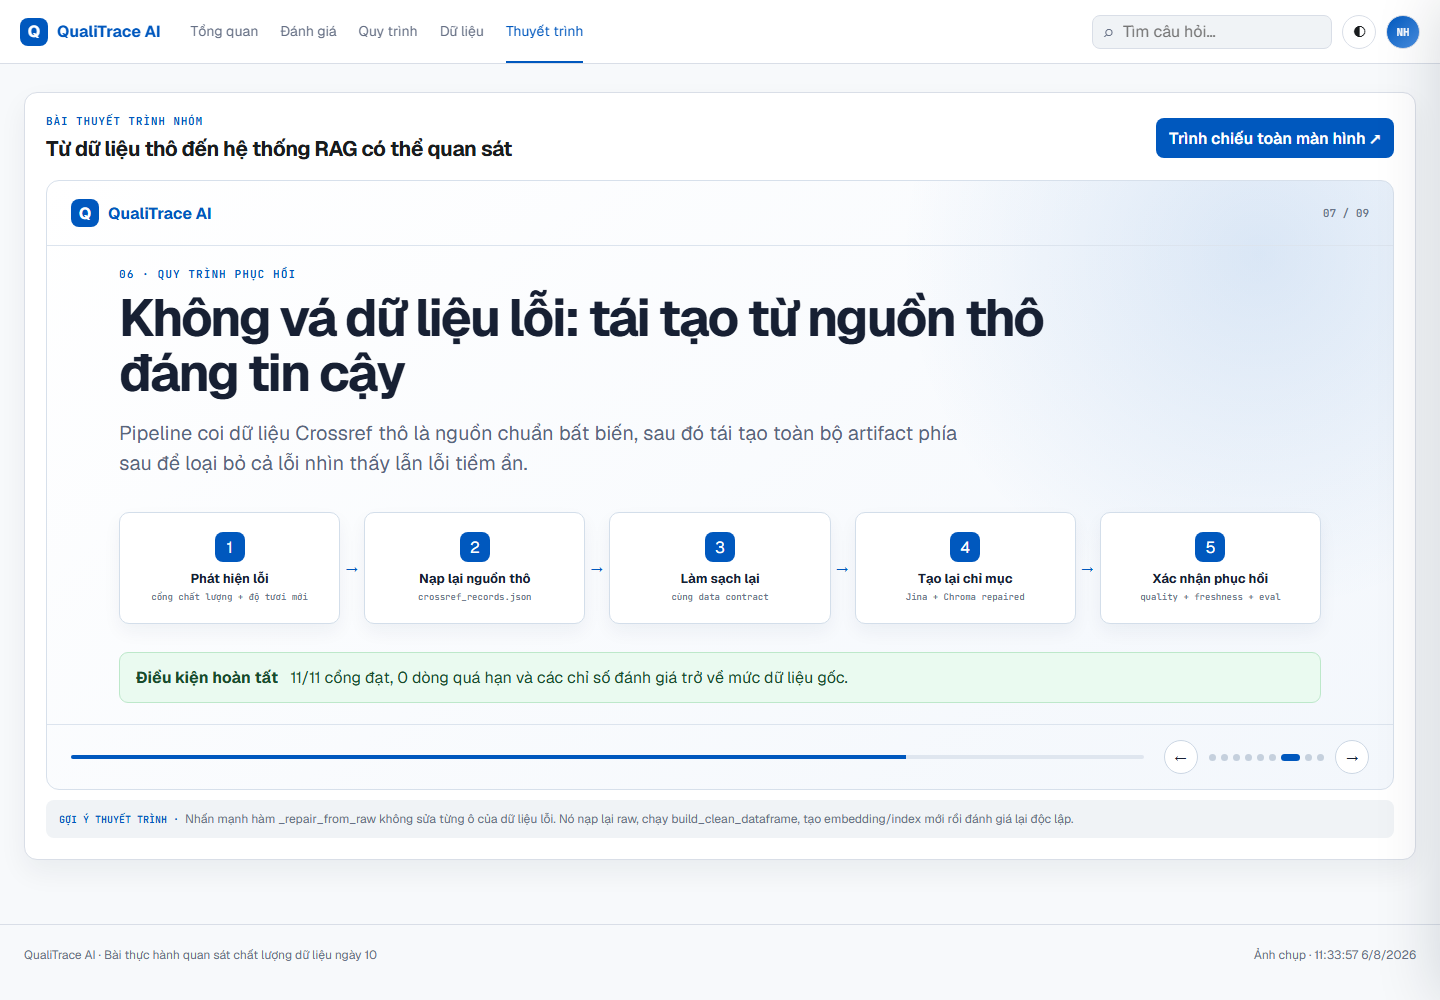
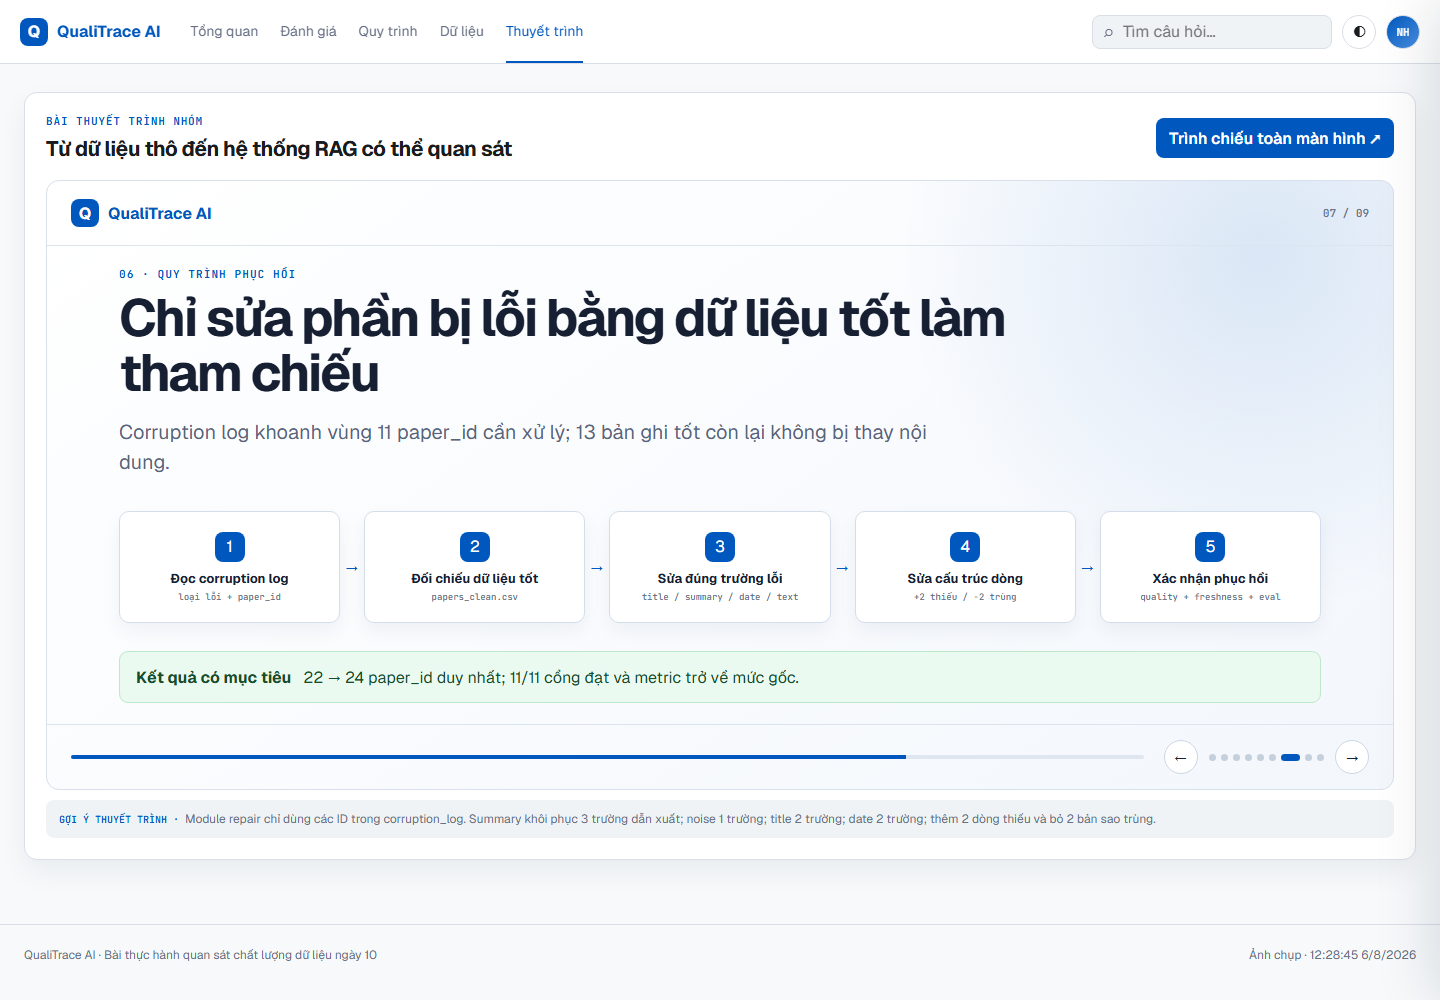
feat: explain corruption impact and targeted recovery in slides

diff --git a/ui/app.js b/ui/app.js
@@ -35,6 +35,7 @@ const artifactPaths = {
     repaired: `${DATA_ROOT}/quality/freshness_repaired.json`,
   },
   corruptionLog: `${DATA_ROOT}/results/corruption_log.json`,
+  repairLog: `${DATA_ROOT}/results/repair_log.json`,
   papers: `${DATA_ROOT}/clean/papers_clean.json`,
   manifest: `${DATA_ROOT}/embeddings/papers_embeddings.json`,
 };
@@ -59,6 +60,33 @@ const corruptionLabels = {
   truncate_title: ["Cắt ngắn tiêu đề", "Cắt title còn khoảng một phần ba độ dài trên hai dòng."],
   age_published_dates: ["Làm cũ ngày xuất bản", "Lùi ngày xuất bản 365 ngày trên hai dòng."],
   duplicate_rows: ["Nhân bản dòng", "Nhân bản hai dòng để phá tính duy nhất của paper_id."],
+};
+
+const corruptionImpactLabels = {
+  drop_latest_records: {
+    dataset: "Thiếu 2 bản ghi mới nhất; độ phủ giảm từ 24 xuống 22 paper_id duy nhất.",
+    rag: "Mất tài liệu liên quan khỏi top-k và làm giảm độ tươi mới.",
+  },
+  blank_summary: {
+    dataset: "2 summary rỗng; summary_chars và nội dung embedding mất tính đầy đủ.",
+    rag: "Vector mất ngữ nghĩa của phần tóm tắt nên truy xuất kém chính xác hơn.",
+  },
+  inject_noise: {
+    dataset: "2 text_for_embedding không còn khớp với các trường nguồn.",
+    rag: "Vector bị lệch và thứ hạng cosine của tài liệu có thể giảm.",
+  },
+  truncate_title: {
+    dataset: "2 tiêu đề chỉ còn khoảng một phần ba nội dung.",
+    rag: "Truy vấn theo tiêu đề và trích dẫn nguồn trở nên kém tin cậy.",
+  },
+  age_published_dates: {
+    dataset: "2 ngày xuất bản bị lùi 365 ngày và age_days tăng sai.",
+    rag: "Báo cáo freshness thất bại; tài liệu mới bị xem như đã cũ.",
+  },
+  duplicate_rows: {
+    dataset: "Thêm 2 dòng trùng, khiến 24 dòng chỉ còn 22 paper_id duy nhất.",
+    rag: "Vector trùng có thể chiếm chỗ của bằng chứng khác trong top-k.",
+  },
 };
 
 const qualityCheckLabels = {
@@ -107,6 +135,7 @@ const loadArtifacts = async () => {
     }
   }
   entries.push(["corruptionLog", artifactPaths.corruptionLog]);
+  entries.push(["repairLog", artifactPaths.repairLog]);
   entries.push(["papers", artifactPaths.papers]);
   entries.push(["manifest", artifactPaths.manifest]);
 
@@ -367,7 +396,8 @@ const setupPresentation = (data) => {
     <div class="slide-card">
       <span class="slide-number">×${entry.count}</span>
       <strong>${escapeHtml(corruptionLabels[entry.corruption]?.[0] || entry.corruption.replaceAll("_", " "))}</strong>
-      <p>${escapeHtml(corruptionLabels[entry.corruption]?.[1] || entry.description)}</p>
+      <p class="impact-line"><b>Dataset</b>${escapeHtml(corruptionImpactLabels[entry.corruption]?.dataset || entry.dataset_impact)}</p>
+      <p class="impact-line rag"><b>RAG</b>${escapeHtml(corruptionImpactLabels[entry.corruption]?.rag || entry.rag_impact)}</p>
     </div>`).join("");
 
   const slides = [
@@ -432,24 +462,25 @@ const setupPresentation = (data) => {
     },
     {
       kicker: "05 · Thí nghiệm khả năng quan sát",
+      className: "impact-slide",
       title: "Corruption có kiểm soát làm suy giảm chất lượng một cách nhìn thấy được",
-      lead: "Sáu kịch bản xác định tác động completeness, validity, uniqueness, consistency và freshness trước khi snapshot raw phục hồi dữ liệu.",
+      lead: "Mỗi thay đổi đều ghi rõ paper_id bị tác động, ảnh hưởng lên dataset và hậu quả trực tiếp đối với retrieval.",
       body: `<div class="slide-grid">${corruptionCards}</div>`,
       note: "Không mô tả corruption là lỗi ngẫu nhiên; nó có seed và log để thí nghiệm có thể tái lập.",
     },
     {
       kicker: "06 · Quy trình phục hồi",
-      title: "Không vá dữ liệu lỗi: tái tạo từ nguồn thô đáng tin cậy",
-      lead: "Pipeline coi dữ liệu Crossref thô là nguồn chuẩn bất biến, sau đó tái tạo toàn bộ artifact phía sau để loại bỏ cả lỗi nhìn thấy lẫn lỗi tiềm ẩn.",
+      title: "Chỉ sửa phần bị lỗi bằng dữ liệu tốt làm tham chiếu",
+      lead: `Corruption log khoanh vùng ${data.repairLog.targeted_unique_records} paper_id cần xử lý; ${data.repairLog.unaffected_reference_records} bản ghi tốt còn lại không bị thay nội dung.`,
       body: `<div class="pipeline-flow repair-flow">
-        <div class="flow-node"><i>1</i><strong>Phát hiện lỗi</strong><span>cổng chất lượng + độ tươi mới</span></div>
-        <div class="flow-node"><i>2</i><strong>Nạp lại nguồn thô</strong><span>crossref_records.json</span></div>
-        <div class="flow-node"><i>3</i><strong>Làm sạch lại</strong><span>cùng data contract</span></div>
-        <div class="flow-node"><i>4</i><strong>Tạo lại chỉ mục</strong><span>Jina + Chroma repaired</span></div>
+        <div class="flow-node"><i>1</i><strong>Đọc corruption log</strong><span>loại lỗi + paper_id</span></div>
+        <div class="flow-node"><i>2</i><strong>Đối chiếu dữ liệu tốt</strong><span>papers_clean.csv</span></div>
+        <div class="flow-node"><i>3</i><strong>Sửa đúng trường lỗi</strong><span>title / summary / date / text</span></div>
+        <div class="flow-node"><i>4</i><strong>Sửa cấu trúc dòng</strong><span>+2 thiếu / −2 trùng</span></div>
         <div class="flow-node"><i>5</i><strong>Xác nhận phục hồi</strong><span>quality + freshness + eval</span></div>
       </div>
-      <div class="takeaway"><strong>Điều kiện hoàn tất</strong><span>11/11 cổng đạt, 0 dòng quá hạn và các chỉ số đánh giá trở về mức dữ liệu gốc.</span></div>`,
-      note: "Nhấn mạnh hàm _repair_from_raw không sửa từng ô của dữ liệu lỗi. Nó nạp lại raw, chạy build_clean_dataframe, tạo embedding/index mới rồi đánh giá lại độc lập.",
+      <div class="takeaway"><strong>Kết quả có mục tiêu</strong><span>${data.repairLog.before.unique_paper_ids} → ${data.repairLog.after.unique_paper_ids} paper_id duy nhất; 11/11 cổng đạt và metric trở về mức gốc.</span></div>`,
+      note: "Module repair chỉ dùng các ID trong corruption_log. Summary khôi phục 3 trường dẫn xuất; noise 1 trường; title 2 trường; date 2 trường; thêm 2 dòng thiếu và bỏ 2 bản sao trùng.",
     },
     {
       kicker: "07 · Kết quả đo lường",
@@ -494,7 +525,7 @@ const setupPresentation = (data) => {
   let current = 0;
 
   container.innerHTML = slides.map((slide, index) => `
-    <article class="presentation-slide ${index === 0 ? "active" : ""}" data-slide="${index}">
+    <article class="presentation-slide ${slide.className || ""} ${index === 0 ? "active" : ""}" data-slide="${index}">
       <p class="slide-kicker">${slide.kicker}</p>
       <h3>${slide.title}</h3>
       <p class="slide-lead">${slide.lead}</p>

diff --git a/ui/styles.css b/ui/styles.css
@@ -297,6 +297,17 @@ body:not(.presentation-mode) .presentation-panel { display: none; }
 .slide-card .slide-number { display: block; margin-bottom: 8px; color: #0058be; font: 700 23px "JetBrains Mono"; }
 .slide-card strong { display: block; color: #172033; }
 .slide-card p { margin: 7px 0 0; color: #69758a; font-size: 13px; line-height: 1.45; }
+.slide-card .impact-line { display: grid; grid-template-columns: 52px 1fr; gap: 7px; margin-top: 8px; font-size: 11px; line-height: 1.35; }
+.impact-line b { color: #9b3415; font: 700 9px "JetBrains Mono"; text-transform: uppercase; }
+.impact-line.rag b { color: #0058be; }
+.presentation-slide.impact-slide { align-content: start; padding: 18px 72px; }
+.impact-slide h3 { max-width: 920px; font-size: clamp(28px, 3.1vw, 40px); }
+.impact-slide .slide-lead { margin-top: 9px; font-size: 15px; line-height: 1.35; }
+.impact-slide .slide-grid { gap: 10px; margin-top: 14px; }
+.impact-slide .slide-card { padding: 11px 13px; }
+.impact-slide .slide-card .slide-number { margin-bottom: 3px; font-size: 18px; }
+.impact-slide .slide-card strong { font-size: 13px; }
+.impact-slide .slide-card .impact-line { margin-top: 5px; font-size: 10px; line-height: 1.25; }
 .pipeline-flow { display: grid; grid-template-columns: repeat(6, minmax(0, 1fr)); gap: 24px; align-items: stretch; margin-top: 34px; }
 .pipeline-flow.repair-flow { grid-template-columns: repeat(5, minmax(0, 1fr)); }
 .flow-node { position: relative; display: grid; min-height: 112px; place-content: center; padding: 13px; text-align: center; background: white; border: 1px solid #d3deea; border-radius: 10px; box-shadow: 0 8px 18px rgba(25, 48, 76, .05); }
